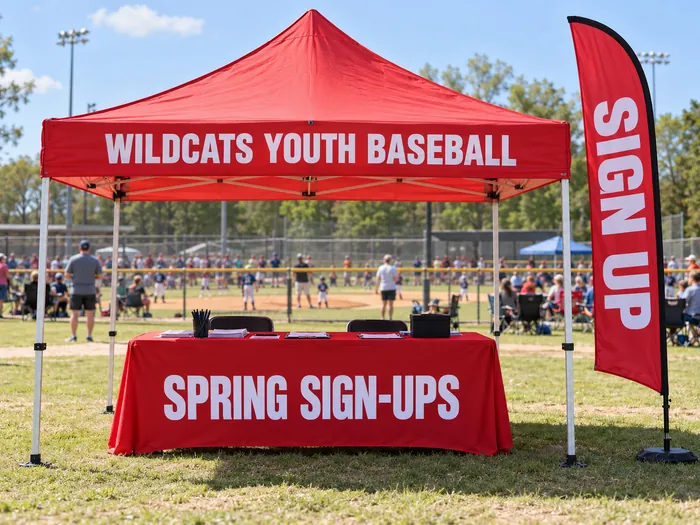
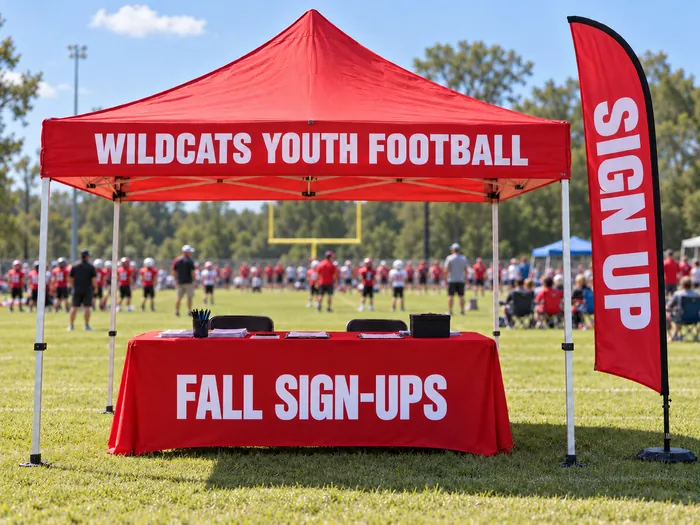
Christmas guide in build source + fall football tent and table throw photos (#5)
* Add the Christmas guide to the build source

The Christmas post went live as a hand-built page in #4, so the next
rebuild from src/ would have dropped it from /blog/ and the sitemap.
Add it to BLOG in seo_pages.py and move each post's image, alt text,
quote product and display date into its entry instead of hard-coding
them by slug. Sitemap lastmod now uses each post's date.

Claude-Session: https://claude.ai/code/session_01MKoDUcjppXBpHwgJhSGGeU

* Switch tent and table throw photos to fall football

Scott's updated ChatGPT set: Wildcats Youth Football with Fall Sign-Ups
on the tent hero, canopy, events tile and blue table throw, plus a
football tent close-up. Home page alt text now says football.

Claude-Session: https://claude.ai/code/session_01MKoDUcjppXBpHwgJhSGGeU

---------

diff --git a/index.html b/index.html
@@ -198,7 +198,7 @@
     <div class="uses">
       <figure class="use u-big"><picture><source srcset="/assets/img/u-business.webp" type="image/webp"><img src="/assets/img/u-business.jpg" alt="Grand opening banner over a coffee shop entrance" width="900" height="563" loading="lazy"></picture><figcaption><h3>Local businesses</h3><p>Grand openings, storefronts, trucks and trade shows.</p></figcaption></figure>
       <figure class="use u-big"><picture><source srcset="/assets/img/u-schools.webp" type="image/webp"><img src="/assets/img/u-schools.jpg" alt="Senior night banner on a ballfield fence" width="900" height="563" loading="lazy"></picture><figcaption><h3>Schools &amp; teams</h3><p>Senior night, sponsor banners, sign-ups and spirit.</p></figcaption></figure>
-      <figure class="use"><picture><source srcset="/assets/img/u-events.webp" type="image/webp"><img src="/assets/img/u-events.jpg" alt="Custom canopy tent and table throw at a youth baseball sign-up" width="700" height="525" loading="lazy"></picture><figcaption><h3>Events</h3><p>Tents, backdrops, table throws and flags that match.</p></figcaption></figure>
+      <figure class="use"><picture><source srcset="/assets/img/u-events.webp" type="image/webp"><img src="/assets/img/u-events.jpg" alt="Custom canopy tent and table throw at a youth football sign-up" width="700" height="525" loading="lazy"></picture><figcaption><h3>Events</h3><p>Tents, backdrops, table throws and flags that match.</p></figcaption></figure>
       <figure class="use"><picture><source srcset="/assets/img/u-realestate.webp" type="image/webp"><img src="/assets/img/u-realestate.jpg" alt="For sale real estate sign with open house rider" width="700" height="525" loading="lazy"></picture><figcaption><h3>Real estate</h3><p>For sale signs, riders, post frames and car magnets.</p></figcaption></figure>
       <figure class="use"><picture><source srcset="/assets/img/u-holidays.webp" type="image/webp"><img src="/assets/img/u-holidays.jpg" alt="Personalized Christmas family name banner on a porch" width="700" height="525" loading="lazy"></picture><figcaption><h3>Holidays</h3><p>Christmas, Halloween, Thanksgiving, birthdays and more.</p></figcaption></figure>
     </div>

diff --git a/src/site-src-index.tpl.html b/src/site-src-index.tpl.html
@@ -129,7 +129,7 @@
     <div class="uses">
       <figure class="use u-big"><picture><source srcset="assets/img/u-business.webp" type="image/webp"><img src="assets/img/u-business.jpg" alt="Grand opening banner over a coffee shop entrance" width="900" height="563" loading="lazy"></picture><figcaption><h3>Local businesses</h3><p>Grand openings, storefronts, trucks and trade shows.</p></figcaption></figure>
       <figure class="use u-big"><picture><source srcset="assets/img/u-schools.webp" type="image/webp"><img src="assets/img/u-schools.jpg" alt="Senior night banner on a ballfield fence" width="900" height="563" loading="lazy"></picture><figcaption><h3>Schools &amp; teams</h3><p>Senior night, sponsor banners, sign-ups and spirit.</p></figcaption></figure>
-      <figure class="use"><picture><source srcset="assets/img/u-events.webp" type="image/webp"><img src="assets/img/u-events.jpg" alt="Custom canopy tent and table throw at a youth baseball sign-up" width="700" height="525" loading="lazy"></picture><figcaption><h3>Events</h3><p>Tents, backdrops, table throws and flags that match.</p></figcaption></figure>
+      <figure class="use"><picture><source srcset="assets/img/u-events.webp" type="image/webp"><img src="assets/img/u-events.jpg" alt="Custom canopy tent and table throw at a youth football sign-up" width="700" height="525" loading="lazy"></picture><figcaption><h3>Events</h3><p>Tents, backdrops, table throws and flags that match.</p></figcaption></figure>
       <figure class="use"><picture><source srcset="assets/img/u-realestate.webp" type="image/webp"><img src="assets/img/u-realestate.jpg" alt="For sale real estate sign with open house rider" width="700" height="525" loading="lazy"></picture><figcaption><h3>Real estate</h3><p>For sale signs, riders, post frames and car magnets.</p></figcaption></figure>
       <figure class="use"><picture><source srcset="assets/img/u-holidays.webp" type="image/webp"><img src="assets/img/u-holidays.jpg" alt="Personalized Christmas family name banner on a porch" width="700" height="525" loading="lazy"></picture><figcaption><h3>Holidays</h3><p>Christmas, Halloween, Thanksgiving, birthdays and more.</p></figcaption></figure>
     </div>

diff --git a/blog/christmas-family-name-banner-ideas/index.html b/blog/christmas-family-name-banner-ideas/index.html
@@ -63,7 +63,7 @@
       <div>
         <p class="eyebrow">Holidays · <time datetime="2026-10-20">October 20, 2026</time></p>
         <h1 class="h1-post">Christmas family name banner and yard sign ideas</h1>
-        <p class="lede">Your family name, out front where the whole street can see it. Here's what to put on a Christmas banner or yard sign, which size fits where, how to make it readable from the road, and the date that matters most: order and approve your proof by December 10.</p>
+        <p class="lede">Your family name, out front where the whole street can see it. Here&#x27;s what to put on a Christmas banner or yard sign, which size fits where, how to make it readable from the road, and the date that matters most: order and approve your proof by December 10.</p>
       </div>
       <figure class="phero-img"><picture><source srcset="/assets/img/g-11-christmas-family-banner-2.webp" type="image/webp"><img src="/assets/img/g-11-christmas-family-banner-2.jpg" alt="Example Christmas family name banner hung on a front porch" width="900" height="675" fetchpriority="high"></picture></figure>
     </div>

diff --git a/src/seo_pages.py b/src/seo_pages.py
@@ -83,11 +83,67 @@ dict(
 
 BLOG = [
 dict(
+ slug='christmas-family-name-banner-ideas',
+ title='Christmas Family Name Banner and Yard Sign Ideas | Get Seen Signs',
+ desc='Christmas family name banner and yard sign ideas: what to put on it, which size fits a porch, garage or fence, design tips that read from the street, and the Dec 10 order date.',
+ h1='Christmas family name banner and yard sign ideas',
+ date='2026-10-20', kicker='Holidays',
+ img='/assets/img/g-11-christmas-family-banner-2.jpg', img_alt='Example Christmas family name banner hung on a front porch',
+ quote='Christmas Family Banner',
+ lede="Your family name, out front where the whole street can see it. Here's what to put on a Christmas banner or yard sign, which size fits where, how to make it readable from the road, and the date that matters most: order and approve your proof by December 10.",
+ html='''
+<h2>What goes on a Christmas family name banner</h2>
+<ul class="ticks">
+<li><b>The family name, big.</b> "The Carters" or "Carter Family." This is what people read from the street, so it gets most of the space.</li>
+<li><b>A short greeting.</b> Merry Christmas, Happy Holidays, Season's Greetings, or Joy. One line is plenty.</li>
+<li><b>Optional "Est." year.</b> "Est. 2014" under the name. It's the detail people ask about.</li>
+<li><b>A style.</b> Our <a href="/holiday-yard-signs/">Christmas family name banner</a> comes in Classic Red, Evergreen and Plaid.</li>
+</ul>
+<p>Keep it to those three or four things. Every extra word makes the name smaller.</p>
+<h2>Ideas that work</h2>
+<h3>The porch rail banner</h3>
+<p>A 2×4 ft banner zip-tied to the porch rail or hung beside the front door. It's the size most families start with, and it's right at eye level for anyone walking up.</p>
+<h3>The garage door or fence banner</h3>
+<p>A 3×6 ft banner across the garage, a privacy fence or a split-rail fence along the road. If your house sits back from the street, go with this size so the name still reads from a car.</p>
+<h3>The "Est." banner for newlyweds and new homes</h3>
+<p>First Christmas married or first Christmas in a new house? Put the name and the year front and center: "The Nguyens, Est. 2026." It also makes a good gift for grandparents or a couple you know. Put their name on it, not yours.</p>
+<h3>The welcome home banner</h3>
+<p>Family flying in for the holidays, a college kid home for break, or a service member home on leave. A banner that says "Welcome Home, Jake" on the porch is the first thing they see when they pull in. Order it as a <a href="/vinyl-banners/">custom vinyl banner</a> in any of our sizes.</p>
+<h3>The yard sign by the driveway</h3>
+<p>No porch rail? A <a href="/custom-yard-signs/">custom yard sign</a> goes in the grass by the mailbox or driveway with a metal H-stake. 18×24 in is the standard size, 24×36 in if you want it bigger. Yard signs print on one side, so face it toward the street.</p>
+<h3>The matching set</h3>
+<p>Banner on the porch, yard sign at the end of the driveway, same colors and same name. It looks planned, and it ties the whole front yard together.</p>
+<h2>Which size goes where</h2>
+<ul class="ticks">
+<li><b>2×4 ft banner, from $44:</b> porch rails, beside the front door, a balcony.</li>
+<li><b>3×6 ft banner, $59:</b> garage doors, fences, houses set back from the road.</li>
+<li><b>18×24 in yard sign with stake, $44:</b> by the mailbox, driveway or front walk.</li>
+<li><b>24×36 in yard sign with stake, $59:</b> corner lots and long driveways.</li>
+</ul>
+<p>Every price includes free shipping in the lower 48 and a free digital proof.</p>
+<h2>Design tips that read from the street</h2>
+<ul class="ticks">
+<li><b>Big, simple letters.</b> Thin script fonts look nice up close and disappear from the road. Use a bold font for the name and save the script for a small greeting, if any.</li>
+<li><b>Strong contrast.</b> White on red, white on dark green, or dark text on a light background. Avoid red on green: from a distance the two blend together.</li>
+<li><b>Fewer words.</b> Name, greeting, year. Skip the full family roster unless it's a 3×6.</li>
+<li><b>Check the spelling on the proof.</b> Especially names with apostrophes. "The Smiths" is plural. "The Smith's" isn't a family name.</li>
+</ul>
+<h2>Hanging it and saving it for next year</h2>
+<p>Banners come with metal grommets. Use a zip tie or bungee at every grommet so the wind can't catch a loose corner. After the holidays, store the banner rolled, not folded, and the yard sign flat, somewhere dry. They'll be ready next season.</p>
+<h2>When to order</h2>
+<p>You get a proof within 1 business day. After you approve it, it takes 3 to 5 business days to make, plus 2 to 5 days of ground shipping. <b>Order and approve your proof by December 10</b> for delivery by Christmas in the lower 48. If you want it up for Thanksgiving weekend, order in early November.</p>
+<p>Live around <a href="/signs-columbus-ga-phenix-city/">Columbus, Phenix City</a> or Smiths Station? We're a veteran-owned shop in Smiths Station, Alabama, and the same timeline applies: proof, print, and free shipping to your door.</p>
+<p><a href="https://www.etsy.com/listing/4597121675" target="_blank" rel="noopener">Order the Christmas family name banner on Etsy</a>, or send a quote request below for a custom size or a different design.</p>
+''',
+),
+dict(
  slug='election-yard-sign-rules-alabama-georgia',
  title='Election Yard Sign Rules: Alabama & Georgia (2026)',
  desc='Where campaign yard signs can go in Alabama and Georgia: polling place distances, road right-of-way, Columbus rules and "paid for by" lines. Sourced.',
  h1='Election yard sign rules in Alabama and Georgia',
  date='2026-10-17', kicker='Campaigns',
+ img='/assets/img/g-02-bulk-yard-signs-2.jpg', img_alt='Example campaign yard signs stacked for a school board race',
+ quote='Bulk Yard Signs',
  lede='Georgia and Alabama vote on November 3, 2026, and Georgia has a general election runoff on December 1. Here\'s where campaign yard signs can go, where they can\'t, and what to print on them, with a link to the source for every rule.',
  html='''
 <p class="note"><b>Not legal advice.</b> This is a plain-English summary for sign buyers, current as of October 17, 2026. Laws and local ordinances change. Check with your county election office, city code office, or campaign attorney before you rely on it.</p>
@@ -127,6 +183,8 @@ dict(
  desc='Senior night banner ideas for football, basketball, volleyball, soccer, baseball, softball and cheer: what to put on it, photo tips, sizes and when to order.',
  h1='Senior night banner ideas by sport',
  date='2026-10-17', kicker='Teams',
+ img='/assets/img/g-12-senior-night-banner-2.jpg', img_alt='Example senior night banner on a ballfield fence',
+ quote='Senior Night Banner',
  lede='Football senior nights are happening now, basketball comes in late January and February, and spring sports follow in April and May. Here are layout ideas that work for every sport, plus the details parents and booster clubs usually forget.',
  html='''
 <h2>What goes on a senior night banner</h2>

diff --git a/src/site-src-pages.py b/src/site-src-pages.py
@@ -338,11 +338,12 @@ print('gameday ok', 'hero real' if hero_real else 'hero fallback')
 posts_cards=''
 for b in BLOG:
     path=f'/blog/{b["slug"]}/'; items=[('Home','/'),('Guides','/blog/'),(b['h1'],path)]
-    og='/assets/img/g-02-bulk-yard-signs-2.jpg' if 'election' in b['slug'] else '/assets/img/g-12-senior-night-banner-2.jpg'
-    art={"@type":"BlogPosting","headline":b['h1'],"description":b['desc'],"datePublished":b['date'],"dateModified":TODAY,"inLanguage":"en-US",
+    og=b['img']
+    art={"@type":"BlogPosting","headline":b['h1'],"description":b['desc'],"datePublished":b['date'],"dateModified":max(b['date'],TODAY),"inLanguage":"en-US",
          "author":{"@id":ORG_ID},"publisher":{"@id":ORG_ID},"mainEntityOfPage":BASE+path,"image":BASE+og}
     nodes=[art, crumbs(items)]
-    img=pic(og[:-4],'Example campaign yard signs stacked for a school board race' if 'election' in b['slug'] else 'Example senior night banner on a ballfield fence',900,675,eager=True)
+    img=pic(og[:-4],b['img_alt'],900,675,eager=True)
+    d=datetime.date.fromisoformat(b['date'])
     page=head(b['title'],b['desc'],path,ld(*nodes),og_img=og,og_w=900,og_h=675,otype='article',preload=og[:-4]+'.webp')+NAV+f'''<main id="main">
 <article>
 <section class="phero ink">
@@ -350,7 +351,7 @@ for b in BLOG:
     {bc_html(items)}
     <div class="phero-in">
       <div>
-        <p class="eyebrow">{e(b["kicker"])} · <time datetime="{b["date"]}">October 17, 2026</time></p>
+        <p class="eyebrow">{e(b["kicker"])} · <time datetime="{b["date"]}">{d:%B} {d.day}, {d.year}</time></p>
         <h1 class="h1-post">{e(b["h1"])}</h1>
         <p class="lede">{e(b["lede"])}</p>
       </div>
@@ -360,14 +361,14 @@ for b in BLOG:
 </section>
 <section class="sec paper"><div class="wrap prose">{b["html"]}</div></section>
 </article>
-{quote_cta("Bulk Yard Signs" if "election" in b["slug"] else "Senior Night Banner")}
+{quote_cta(b["quote"])}
 </main>
 '''+foot()
     write(path,page)
     posts_cards+=f'<a class="post" href="{path}"><div class="card-img">{pic(og[:-4],"",900,675)}</div><div class="card-body"><p class="eyebrow">{e(b["kicker"])}</p><h3>{e(b["h1"])}</h3><p>{e(b["desc"])}</p><span class="go">Read the guide <span aria-hidden="true">→</span></span></div></a>'
 path='/blog/'; items=[('Home','/'),('Guides','/blog/')]
 title='Sign Guides & How-Tos | Get Seen Signs'
-desc='Practical guides from Get Seen Signs: Alabama and Georgia election yard sign rules, senior night banner ideas, and how to pick the right sign.'
+desc='Practical guides from Get Seen Signs: Christmas family name banner ideas, Alabama and Georgia election yard sign rules, senior night banner ideas, and how to pick the right sign.'
 page=head(title,desc,path,ld(crumbs(items),{"@type":"Blog","@id":BASE+path,"url":BASE+path,"name":"Get Seen Signs Guides","publisher":{"@id":ORG_ID}}))+NAV+f'''<main id="main">
 <section class="phero ink"><div class="wrap">{bc_html(items)}<h1>Sign <span class="block">guides.</span></h1><p class="lede">Straight answers for people buying signs: the rules, the sizes and the timing.</p></div></section>
 <section class="sec paper"><div class="wrap"><div class="posts">{posts_cards}</div></div></section>
@@ -376,8 +377,10 @@ page=head(title,desc,path,ld(crumbs(items),{"@type":"Blog","@id":BASE+path,"url"
 write(path,page)
 
 # ---------- sitemap, robots ----------
+LASTMOD={f'/blog/{b["slug"]}/':max(b['date'],TODAY) for b in BLOG}
+LASTMOD['/blog/']=max([TODAY]+list(LASTMOD.values()))
 urls=['/']+[f'/{p["slug"]}/' for p in P]+[f'/{L["slug"]}/' for L in LOCAL]+[f'/{GAMEDAY["slug"]}/']+['/blog/']+[f'/blog/{b["slug"]}/' for b in BLOG]+['/privacy']
-sm='<?xml version="1.0" encoding="UTF-8"?>\n<urlset xmlns="http://www.sitemaps.org/schemas/sitemap/0.9">\n'+''.join(f'  <url><loc>{BASE}{u}</loc><lastmod>{TODAY}</lastmod></url>\n' for u in urls)+'</urlset>\n'
+sm='<?xml version="1.0" encoding="UTF-8"?>\n<urlset xmlns="http://www.sitemaps.org/schemas/sitemap/0.9">\n'+''.join(f'  <url><loc>{BASE}{u}</loc><lastmod>{LASTMOD.get(u,TODAY)}</lastmod></url>\n' for u in urls)+'</urlset>\n'
 open(SITE+'/sitemap.xml','w').write(sm)
 open(SITE+'/robots.txt','w').write(f'User-agent: *\nAllow: /\n\nSitemap: {BASE}/sitemap.xml\n')
 json.dump(urls,open(SRC+'/urls.json','w'),indent=1)
